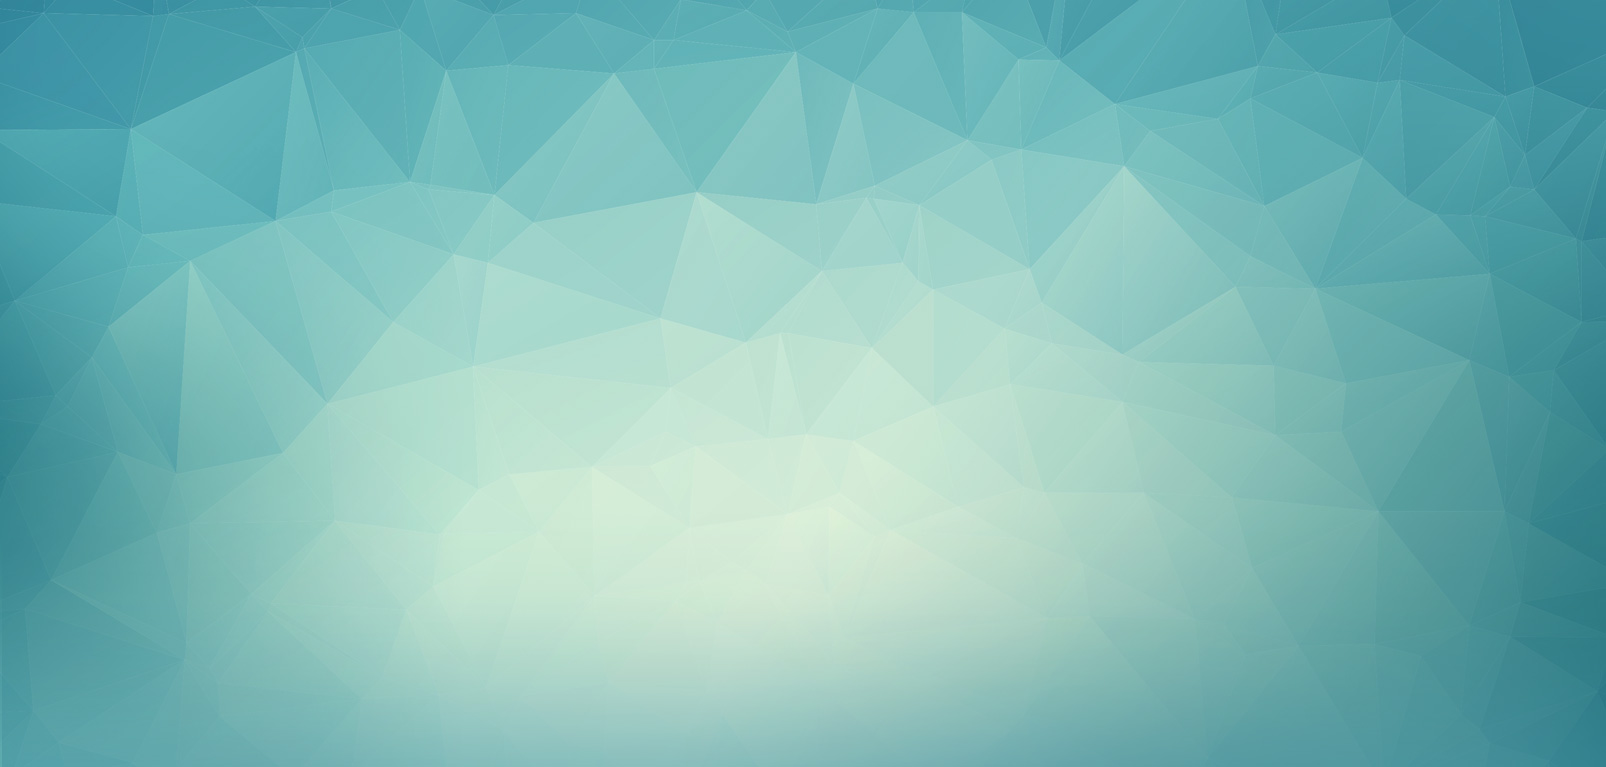
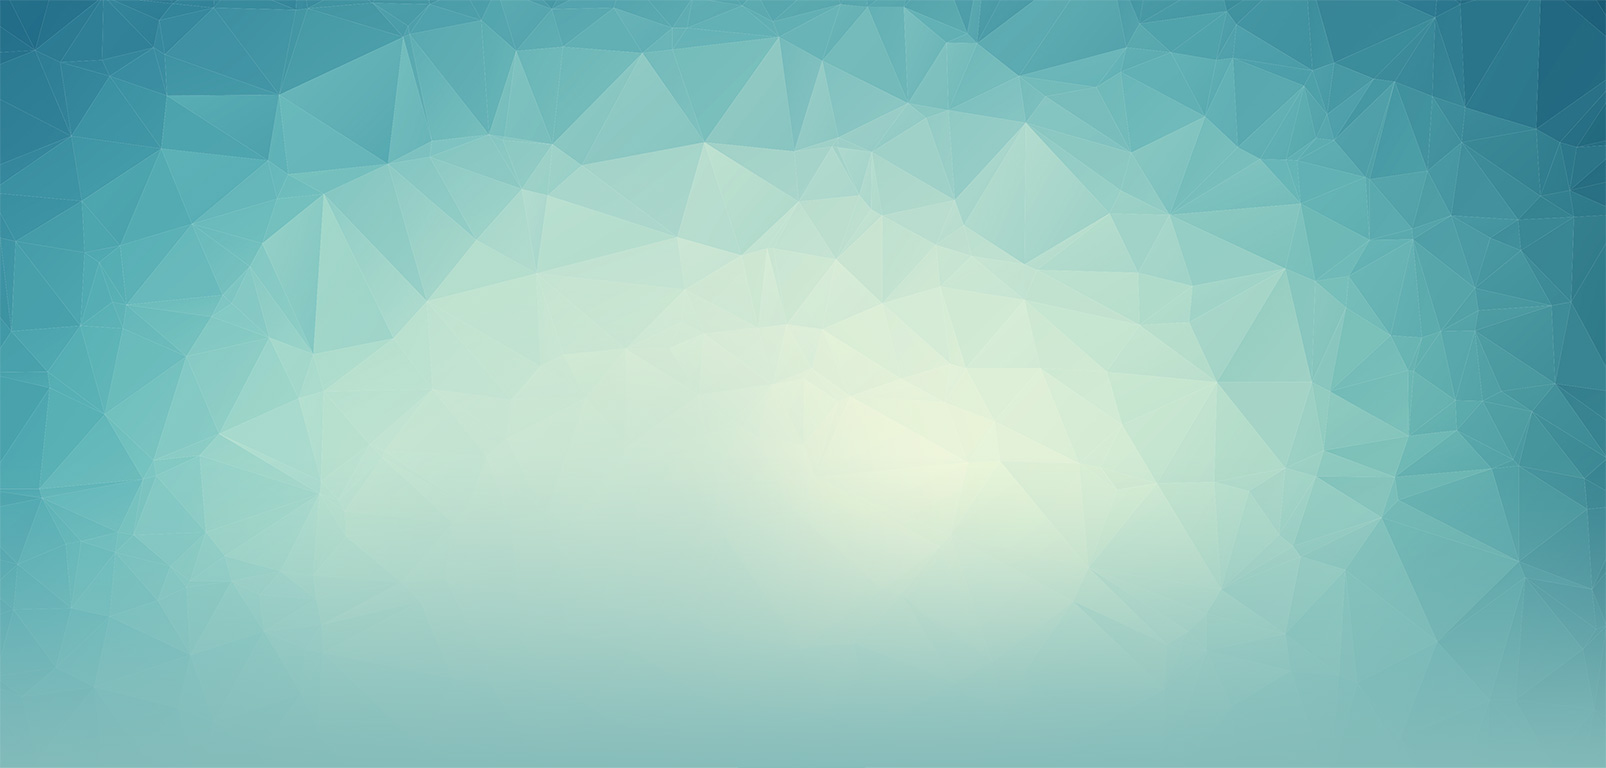
Сделана ретинизация фона промоблока

diff --git a/src/less/blocks/slider.less b/src/less/blocks/slider.less
@@ -3,7 +3,20 @@
     background-color: @color-cold;
     background: radial-gradient(at center 75%, lighten(@color-cold, 60%), @color-cold);
 
-    @media (min-width: @screen-sm) { height: 660px; background: url(../img/slider-background.jpg) center bottom no-repeat; }
+    @media (min-width: @screen-sm) {
+		height: 660px;
+		background: url(../img/slider-background.jpg) center bottom no-repeat;
+		
+		@media (min-resolution: 2dppx) {
+			background: url(../img/slider-background_2x.jpg) center top no-repeat;
+			background-size: cover;
+		}
+		
+		@media (min-resolution: 3dppx) {
+			background: url(../img/slider-background_3x.jpg) center top no-repeat;
+			background-size: cover;
+		}
+	}
 
     @media (min-width: @screen-md) { height: 767px; }
 

diff --git a/src/less/blocks/section.less b/src/less/blocks/section.less
@@ -131,10 +131,24 @@
     &__arrow {
         position: absolute;
         top: 0px;
-        width: 100%;
-        height: 29px;
+		left: 0;
+		right: 0;
+		margin: auto;
+        width: 127px;
+        height: 41px;
         background: url(../img/slider-arrow.jpg) center top no-repeat;
+		
         .hidden-xs();
+		
+		@media (min-resolution: 2dppx) {
+			background: url(../img/slider-arrow_2x.jpg) center top no-repeat;
+			background-size: contain;
+		}
+		
+		@media (min-resolution: 3dppx) {
+			background: url(../img/slider-arrow_3x.jpg) center top no-repeat;
+			background-size: contain;
+		}
     }
 	
 	&__img-main {
